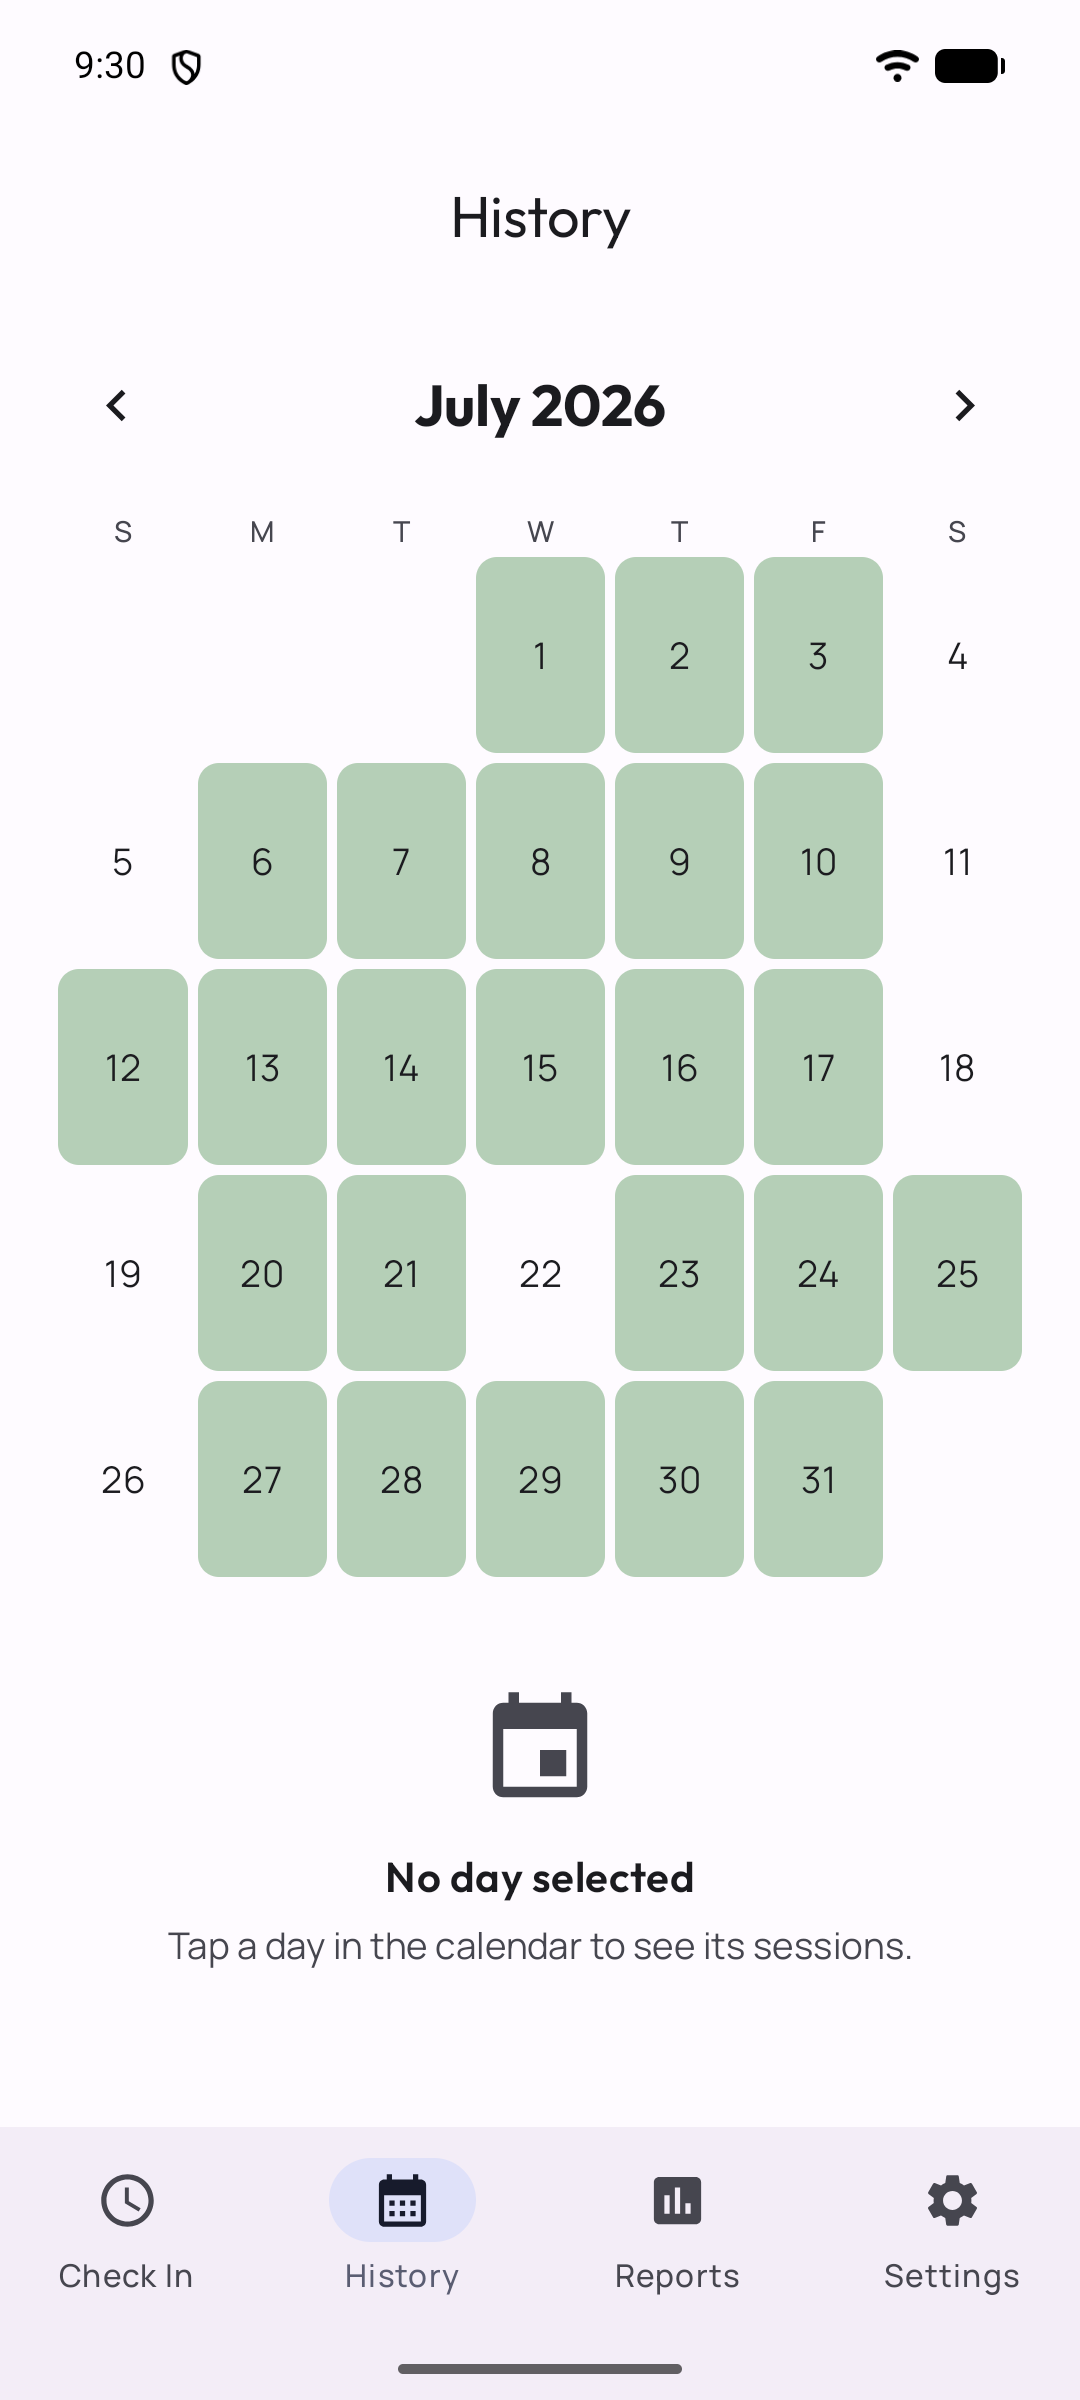
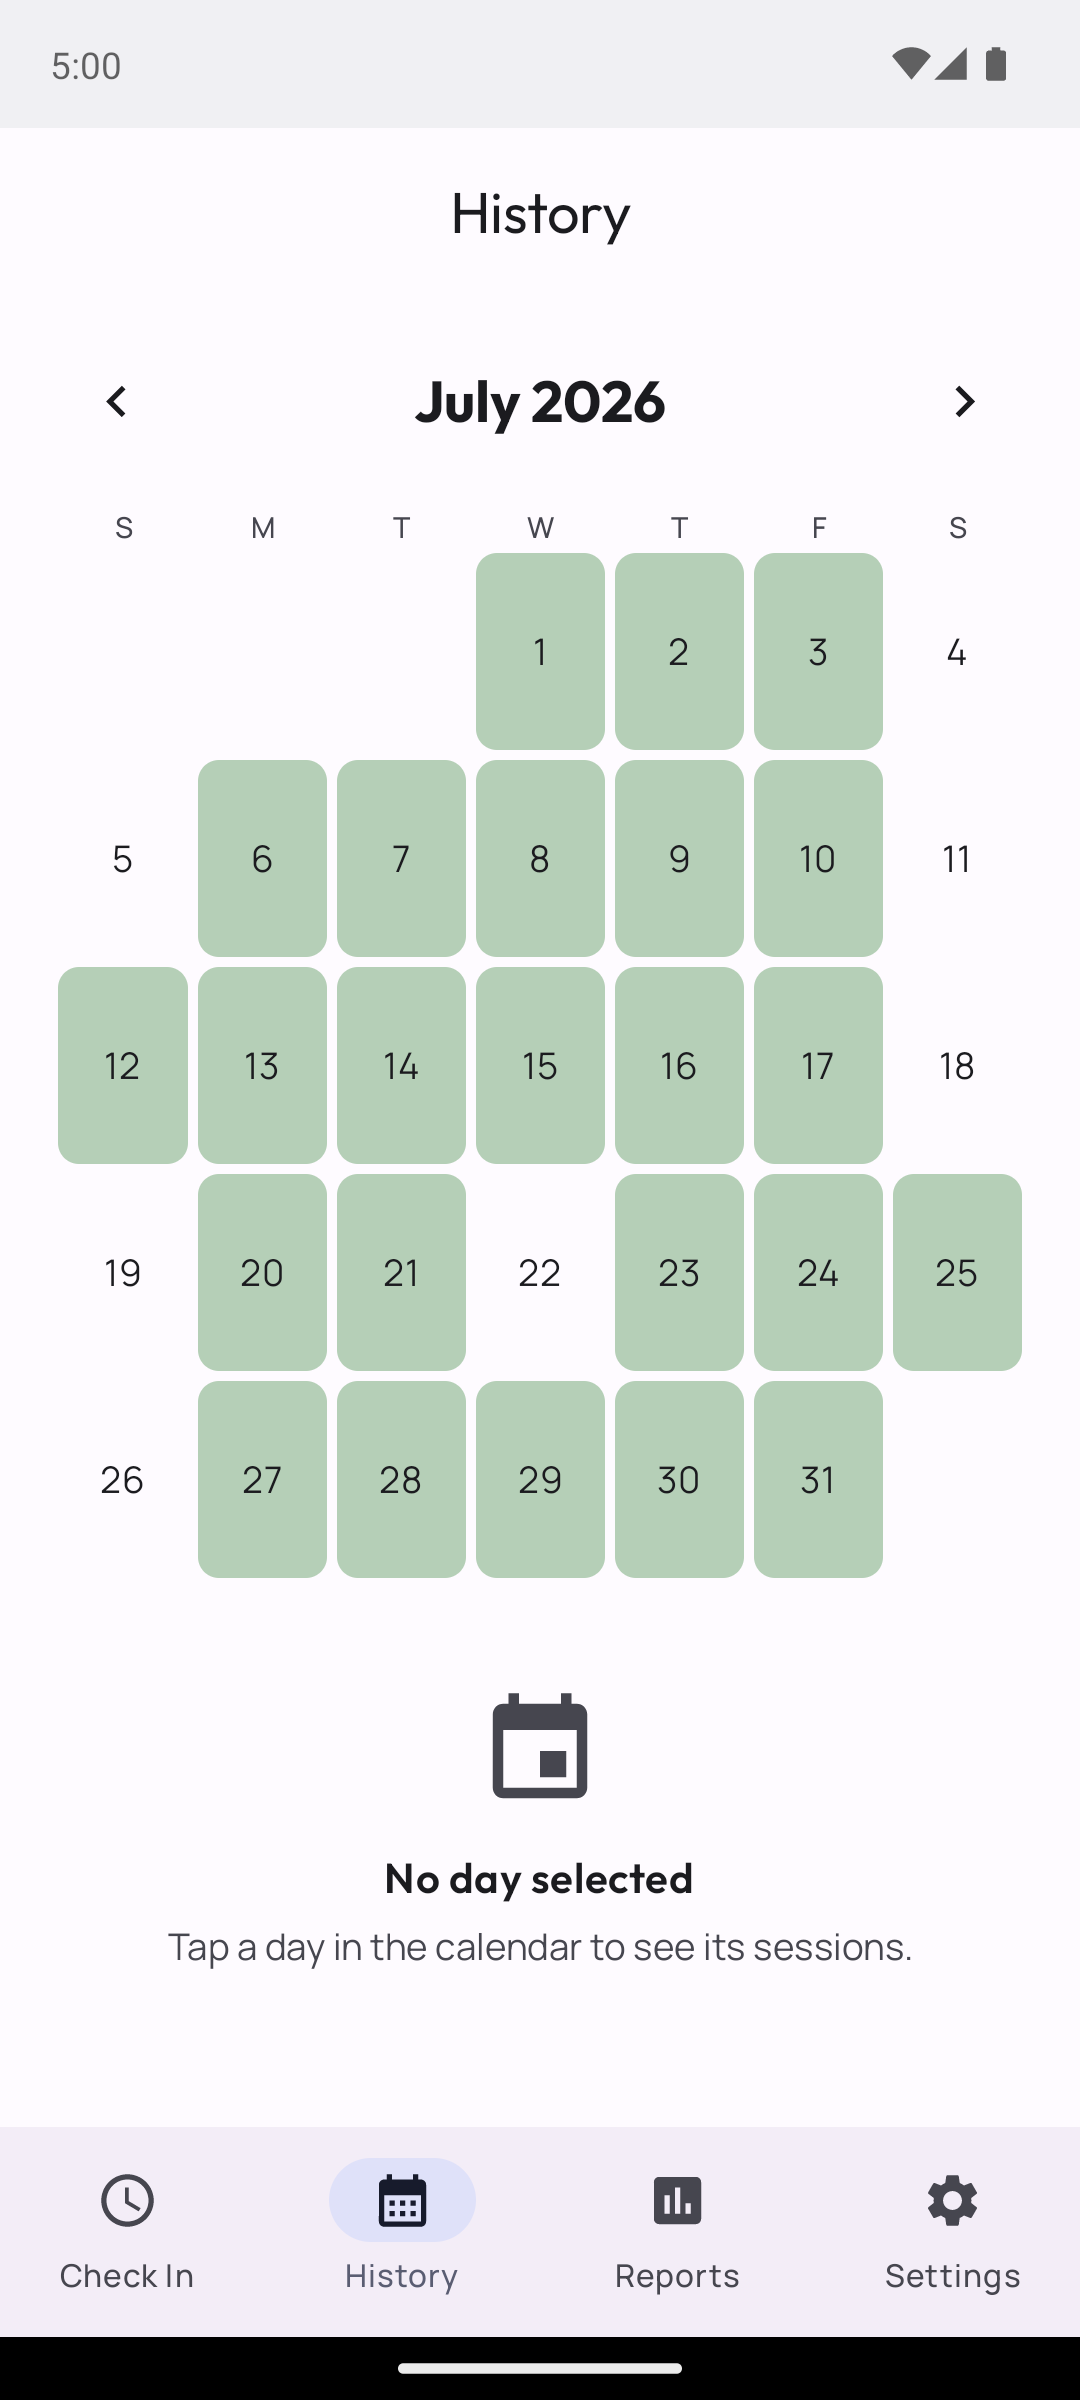
Shoot both listing sets against the 3.0 release build
The phone set was owed two captures and the tablet set was withdrawn; both are
now shot, against `assembleRelease` rather than the debug variant, so what the
listing shows is what an installer gets. With no keystore.properties the release
variant falls back to the debug signing config, which is what makes it
installable on an emulator — and what lets the seeding happen under the debug
build and then be upgraded in place, since run-as refuses a non-debuggable
package and adb root is refused on a Play system image.

The seed moves to today's date. START is now the first of the previous month
rather than a fixed 57 days back: the summary caption states a figure for a
whole July, so a window opening on the 2nd would assert it over 30 days. The
searched seed survived the shift and July still lands on 24 of 31 — luck, not a
property, and the comment now says so.

The phone captures are on the API 33 AVD rather than the newer Pixel 8, for two
reasons that are both about the emulator rather than the app: it is a
google_apis image, so its clock can be set to a working hour, and an open
session seeded for the afternoon otherwise reads 0m 0s against a machine running
at 1am; and its shade renders the foreground-service notification, which the API
37 emulator does not. The tablet image is Play-only and so has no settable
clock, so its seeded day is closed out and the Check-In shot is the resting
state — which is the honest tablet state anyway.
[…]

diff --git a/play-store-assets/seed_demo_data.py b/play-store-assets/seed_demo_data.py
@@ -18,15 +18,21 @@ import sys
 from datetime import date, datetime, timedelta, timezone
 
 TZ = timezone(timedelta(hours=4))          # the device's zone; date_key must agree with it
-TODAY = date(2026, 8, 27)
-START = TODAY - timedelta(days=57)         # ~8 weeks, enough for two months of bars
+TODAY = date(2026, 8, 28)
+# The first of the *previous* month, rather than a fixed number of days back: the summary
+# screenshot's caption states a figure for a whole calendar month, so a window opening on the
+# 2nd would assert it over one day fewer than the month has. This tracks TODAY on its own; the
+# seed below does not, and has to be re-searched whenever TODAY moves.
+START = (TODAY.replace(day=1) - timedelta(days=1)).replace(day=1)
 MISS_CHANCE = {5: 0.55, 6: 0.65}           # Sat/Sun are the days most often skipped
 WEEKDAY_MISS = 0.10
 
 # Reproducible: same screenshots on a re-run. The value is *searched*, not arbitrary — it is
 # the seed for which July lands on exactly 24 days shown up of 31, which is what the summary
 # screenshot's caption states. Change TODAY and this number stops meaning anything; re-search
-# it rather than leaving a caption asserting a figure the data no longer produces.
+# it rather than leaving a caption asserting a figure the data no longer produces. The search
+# is a loop over candidate seeds counting July's days; it survived the 27th -> 28th move, which
+# is luck rather than a property — do not assume the next date shift is free.
 random.seed(20260006)
 
 

diff --git a/play-store-assets/LISTING.md b/play-store-assets/LISTING.md
@@ -155,7 +155,7 @@ is what makes them easy to write back in.
 | App icon | 512×512 PNG | `app/src/main/ic_launcher-playstore.png` — generated by `generate_icons.py` |
 | Feature graphic | 1024×500 PNG | `feature-graphic.png` — generated by `generate_feature_graphic.py` |
 | Phone screenshots | 7 at 1080×1920 | `screenshots/phone/` — composited by `generate_screenshots.py` |
-| Tablet screenshots | — | **Withdrawn for 3.0. See below.** |
+| Tablet screenshots | 3 at 2560×1600 | `screenshots/tablet/` — captured, uncaptioned. See below |
 
 All three generators are deterministic, so re-running them is how you check the committed files are
 current: identical output means no drift. See `README.md` for the capture procedure.
@@ -175,10 +175,10 @@ screenshot corroborates.
 
 | # | File | Shows | Caption |
 |---|---|---|---|
-| 1 | `01-calendar.png` | A full month, binary, with two or three gaps | A day counts because you showed up. |
-| 2 | `02-face-check.png` | The presence gate mid-check | Check in with a face check that takes no photo. |
+| 1 | `01-calendar.png` | A complete month, binary, weekends mostly among the gaps | A day counts because you showed up. |
+| 2 | `02-face-check.png` | The gate's disclosure, stating the mechanism in the app's words | Check in with a face check that takes no photo. |
 | 3 | `03-summary.png` | Days shown up against days tracked; hours below, plain | 24 days out of 31. Hours are a number, not a grade. |
-| 4 | `04-running.png` | The timer notification pulled down over the app | A live timer while you're in. Nothing gets subtracted. |
+| 4 | `04-running.png` | The timer notification in the shade, chronometer running | A live timer while you're in. Nothing gets subtracted. |
 | 5 | `05-start-times.png` | The morning / afternoon / evening split | See when you actually start. No bucket is the right one. |
 | 6 | `06-privacy.png` | The in-app privacy screen | No internet permission at all. It cannot upload, because it cannot connect. |
 | 7 | `07-export.png` | The system share sheet mid-export | Export everything. That copy is yours. |
@@ -207,9 +207,18 @@ has, so a screenshot showing one is a screenshot of a build that does not exist:
 
 ### Tablet screenshots
 
-The three committed tablet shots (`screenshots/tablet/`) show the duration-shaded calendar and the
-personal-best rings, so all three are of a build that no longer exists and none can ship. Reshooting
-them is a separate pass — History still goes two-pane on expanded widths, so the tablet listing is
-worth having — but 3.0 does not block on it. Play does not require tablet screenshots; without them
-the listing simply carries a "not optimised for tablets" note on tablet devices.
+Three shots, reshot for 3.0 against the same seeded history as the phone set: the Check-In screen at
+rest, History with a day selected, and Reports. **They are uploaded uncaptioned**, unlike the phone
+set, and that is a deliberate asymmetry rather than an omission. The phone strip is read in search
+results by someone who has never seen the app, which is what the caption band is for; the tablet
+strip is only ever reached from the listing page itself, by someone who has already read that copy.
+
+History is the one worth having, and the reason the set exists at all: it goes two-pane on expanded
+widths, so the calendar and the selected day's ledger sit side by side — which is the layout a phone
+cannot show and the one a tablet user is deciding about. The Check-In screen is deliberately the
+resting state, green button and still lattice, because a tablet is not where a session is usually
+running.
+
+Play does not require tablet screenshots; without them a listing carries a "not optimised for
+tablets" note on tablet devices, which is what these remove.
 

diff --git a/play-store-assets/README.md b/play-store-assets/README.md
@@ -11,7 +11,8 @@ Graphics for the Google Play listing of **Sleeves Up**.
 | `LISTING.md` | — | The store listing copy, the two rules governing it, and the vocabulary it must never use |
 | `screenshots/raw/` | — | Device captures, uncaptioned. The input to `generate_screenshots.py` |
 | `generate_screenshots.py` | — | Composites `raw/` into `screenshots/phone/`; captions parsed from `LISTING.md` |
-| `screenshots/phone/` | 1080×1920 PNG ×7 | Phone screenshots (generated — see below, currently owed two captures) |
+| `screenshots/phone/` | 1080×1920 PNG ×7 | Phone screenshots (generated) |
+| `screenshots/tablet/` | 2560×1600 PNG ×3 | Tablet screenshots — captured, uncaptioned, no compositing step |
 | `seed_demo_data.py` | — | Writes the demo history the screenshots are taken against |
 
 **Every generator is deterministic, so re-running one is also the check**: identical output means
@@ -64,14 +65,24 @@ inspected rather than as a record that continues.
 
 ## Regenerating the screenshots
 
-**The phone set is owed two captures.** `LISTING.md` specifies seven; `screenshots/raw/` holds five
-— `02-face-check.png` and `04-running.png` have never been taken — and `generate_screenshots.py`
-exits naming them rather than writing a short set. So `screenshots/phone/` cannot be regenerated and
-is not committed. The 2.x set that used to sit there was deleted rather than left standing: it
-showed the old branding and the progress ring 3.0 removed, and a stale panel in the folder the
-upload is taken from is worse than an absent one. `screenshots/tablet/` went with it, since
-`LISTING.md` withdraws the tablet set for 3.0. **Do not upload the listing until both raws exist and
-the generator has run.**
+Both sets were shot for 3.0 against the **release** build (`assembleRelease`), not the debug one, so
+what the listing shows is what an installer gets. With no `keystore.properties` the release variant
+falls back to the debug signing config, which is what makes it installable on an emulator at all —
+and what lets the seeding below happen under the debug build and then be upgraded in place.
+
+**Seeding needs a debuggable build or a rootable image, and the release APK is neither.** `run-as`
+refuses a non-debuggable package and `adb root` is refused on a Play system image, so the sequence
+is: install debug, walk the welcome tour (the DB has no tables until a screen queries it), pull,
+seed, push, then `install -r` the release APK over the top. Same signature, so the data survives.
+**Pull the WAL and shm files too** — Room leaves the whole schema in the write-ahead log, so `_app`
+alone comes back as an empty file and the seed script fails with `no such table: sessions`.
+
+The **phone** set is captured on `CheckIn_API33`, deliberately, not on the newer Pixel_8 AVD. It is
+a `google_apis` image rather than a `google_apis_playstore` one, so `adb root` works and the clock
+can be set to a working hour — an open session seeded for the afternoon reads `0m 0s` against an
+emulator running at 1am. The API 33 shade also renders the foreground-service notification, which
+the API 37 emulator does not. The **tablet** image is Play-only and so cannot have its clock set;
+its seeded day is closed out instead, and the Check-In shot is the resting state.
 
 They are taken against **seeded demo data on an emulator, never a real device** — a real install
 has whatever history it happens to have, which is usually too thin to fill a calendar month or give
